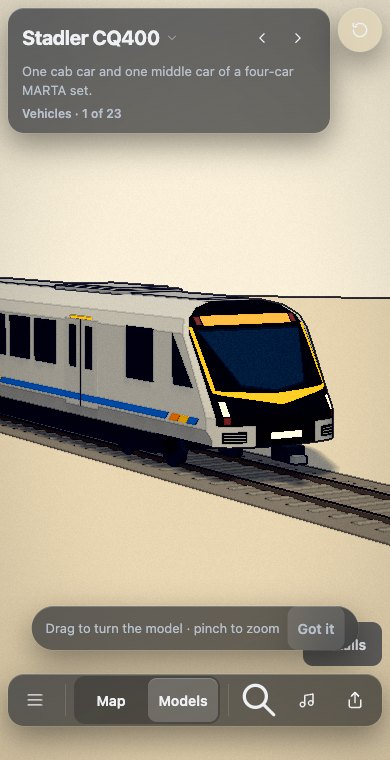
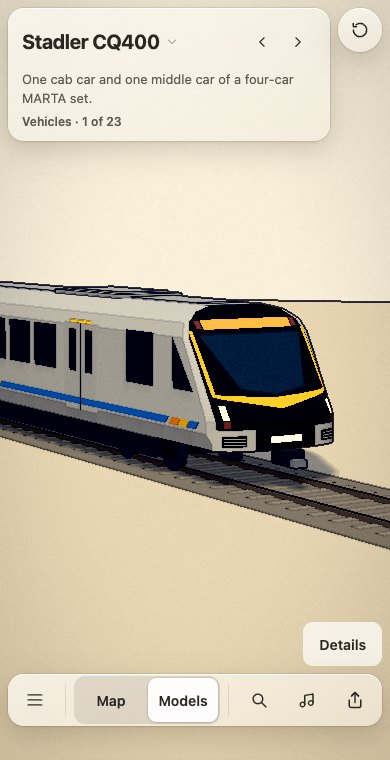
Tune cab and whole-train framing and verify City return

diff --git a/web/src/main.ts b/web/src/main.ts
@@ -754,7 +754,7 @@ function closeCity(keepMapView = false, writeUrl = true) {
 // The lab's own module mounts its markup into #lab-root (models/lab-markup.ts) and pauses drawing
 // while this section is hidden. City is disposed on the way in, so two 3D scenes never run at once.
 let labRoot: HTMLElement | null = null;
-let labView: { openBrowser(): void; escape(): boolean; model(): string | null; reset(): void } | null = null;
+let labView: { enter(): void; openBrowser(): void; escape(): boolean; model(): string | null; reset(): void } | null = null;
 let labReady: Promise<void> | null = null;
 let sceneTitle = document.title;
 let pendingModel: string | null = null;
@@ -789,6 +789,7 @@ async function openModels() {
     return;
   }
   if (!inModels()) return;
+  labView?.enter();
   const target = new URL(location.href).searchParams.get('model');
   if (target && labView?.model() !== target) {
     labRoot.querySelector<HTMLButtonElement>(`.library [data-model="${CSS.escape(target)}"]`)?.click();

diff --git a/web/src/ui/next/next.css b/web/src/ui/next/next.css
@@ -633,3 +633,6 @@ body.city-over-map #city-loading { background: transparent !important; }
 .a2-camera .a2-needle { display: block; width: 32px; height: 32px; }
 :root[data-theme=dark] .a2-dock-field,:root[data-theme=dark] .a2-dock-field kbd { background: rgba(255,255,255,.10); }
 @media(min-width:601px) { .a2-appbar { padding-inline: 8px; gap: 6px; } }
+.a2-in-models .a2-hint { display: none; }
+.a2-model-details .settings button,.a2-model-row,.a2-chip,.a2-model-name { min-height: 44px; }
+.a2-model-details .settings button { min-width: 44px; }

diff --git a/web/src/ui/next/shell.ts b/web/src/ui/next/shell.ts
@@ -41,7 +41,7 @@ function el<K extends keyof HTMLElementTagNameMap>(tag: K, attrs: Record<string,
 
 export function createShellNext(o: ShellOptions): ShellApi {
   let view = o.view;
-  let mapMode: View = view === 'map' ? 'map' : 'city';
+  let mapMode: View = new URL(location.href).searchParams.get('view') === 'models' ? 'city' : view;
   const reducedMotion = matchMedia('(prefers-reduced-motion: reduce)');
   const coarse = matchMedia('(pointer: coarse)');
 

diff --git a/web/src/models/main.ts b/web/src/models/main.ts
@@ -682,7 +682,7 @@ function fitModel(animate: boolean) {
   if (width < 44 || height < 44) return;
 
   const box = new THREE.Box3();
-  if (cars.length && width < height) {
+  if (cars.length && width < height && stage.width < stage.height) {
     // The leading cab points along +Z in the lab.
     const lead = cars.map(car => new THREE.Box3().setFromObject(car)).sort((a,b) => b.max.z - a.max.z)[0];
     box.copy(lead);

diff --git a/web/src/ui/next/models-view.ts b/web/src/ui/next/models-view.ts
@@ -185,6 +185,7 @@ export function mountModelsView(root: HTMLElement, opts: { dev: boolean }) {
       }
       return false;
     },
+    enter() { if (innerWidth >= 1280) openBrowser(false); else closeBrowser(); setDetails(false); },
     openBrowser,
     model: () => current()?.dataset.model ?? null,
     /** Reset view: choose the current model again, which returns to its opening view. */

diff --git a/docs/build-log.md b/docs/build-log.md
@@ -3059,3 +3059,7 @@ whatever space the panels leave clear.
 ### 2026-11-24 — The dock stays put when the map tilts
 
 Map and City now share one tab. The 3D button and tilt control use the existing white-model arrival. On a 390 × 760 phone, moving Share to the dock leaves just two camera controls over the scene. The desktop and phone captures show the same shifted clock and Midtown camera, `565,-3965,-101,55,421`. [Desktop](log/ui/final-dock/city.jpg) · [Phone](log/ui/final-dock/phone.jpg).
+
+### 2026-11-24 — Fit the cab between the controls
+
+At 390 × 760 the lab fits the leading 35% of the cab car. At 1440 × 900 it fits the two-car train between the catalogue and Details. Both use the same eight box corners and a 12% margin. Returning from Models to the frozen Midtown Low camera took 1.69 s on the Studio, timed from tapping Map to City's completed reveal. [Phone cab](log/ui/final-models/phone.jpg) · [Wide catalogue](log/ui/final-models/wide.jpg).
